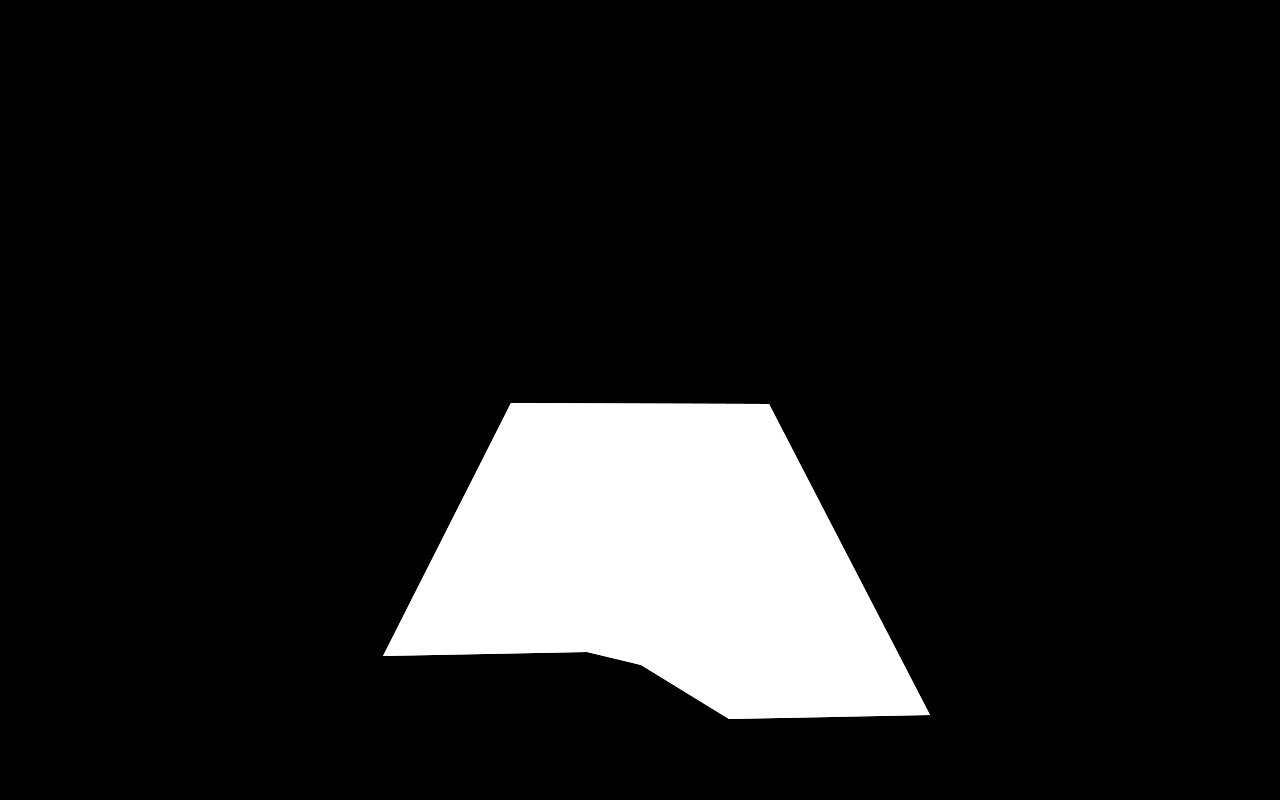
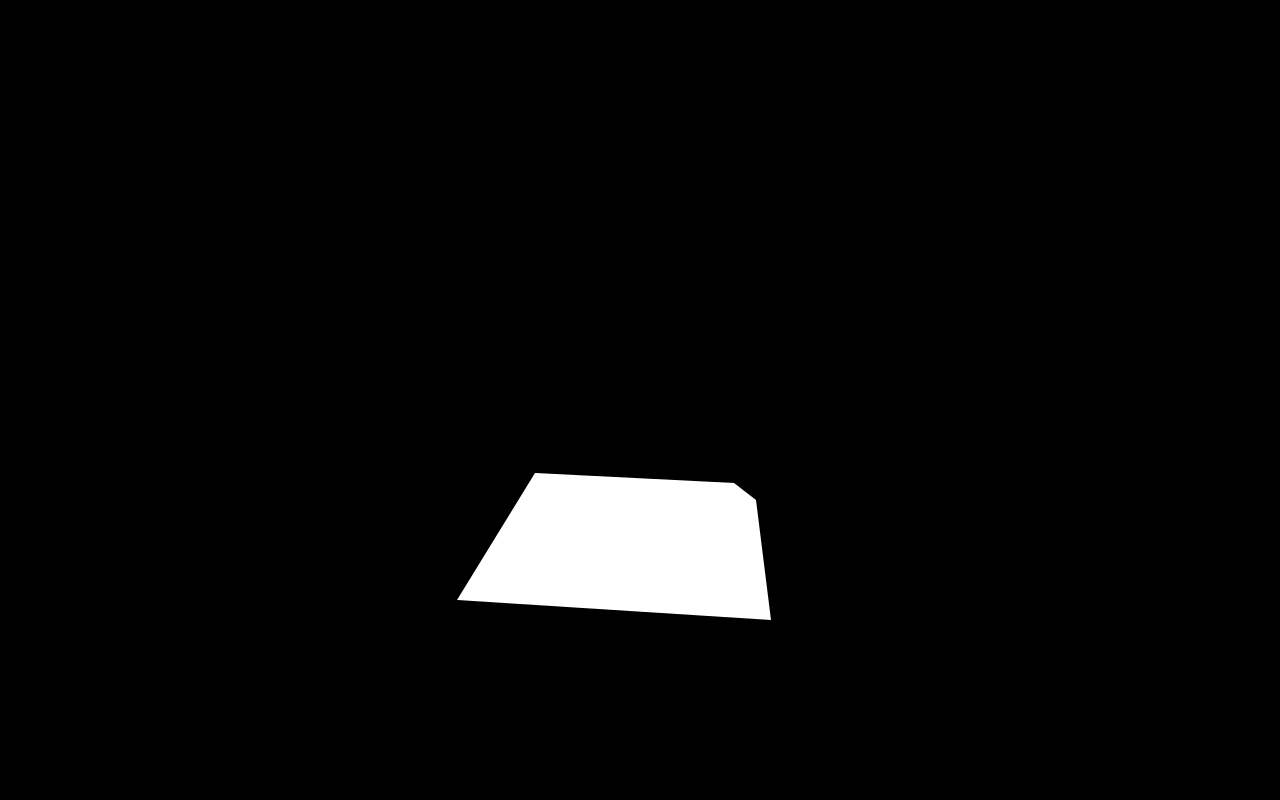
Initial calibration of the head vision algorithm

Changed region(s): [[0.2812, 0.5, 0.75, 0.9062]]

diff --git a/sorting_demo/src/sorting_demo/cv_detection_head.py b/sorting_demo/src/sorting_demo/cv_detection_head.py
@@ -17,17 +17,19 @@ from cv_detection_camera_helper import CameraHelper
 
 import demo_constants
 
+use_real_robot_parameters = True
 class HeadCVParameters:
     def __init__(self):
-        if demo_constants.is_real_robot():
+        global use_real_robot_parameters
+        if use_real_robot_parameters:
             self.BLUR_SIZE = 3
             self.ROI_MASK = rospkg.RosPack().get_path('sorting_demo') + "/share/head_mask_real.png"
             self.CLAHE_SIZE = 16
-            self.BIN_THRESHOLD = 64
+            self.BIN_THRESHOLD = 16
             self.EROSION_SIZE = 3
-            self.HISTOGRAM_BLUR_SIZE = 31
+            self.HISTOGRAM_BLUR_SIZE = 61
             self.PEAK_MINIMUM = 10
-            self.PEAK_MAXIMUM = 200
+            self.PEAK_MAXIMUM = 150
             self.HUE_AMPLITUDE = 10
             self.FIND_CONTOURS_METHOD = cv2.RETR_EXTERNAL
             self.MINIMUM_AREA_SIZE = 50
@@ -287,7 +289,12 @@ def test_head_debug():
     """
 
     # Get files
-    path = rospkg.RosPack().get_path('sorting_demo') + "/share/test_head_simulator"
+    global use_real_robot_parameters
+    if use_real_robot_parameters:
+        path = rospkg.RosPack().get_path('sorting_demo') + "/share/test_head_real"
+    else:
+        path = rospkg.RosPack().get_path('sorting_demo') + "/share/test_head_sim"
+
     files = [f for f in os.listdir(path) if os.path.isfile(os.path.join(path, f))]
     #print(files)
 
